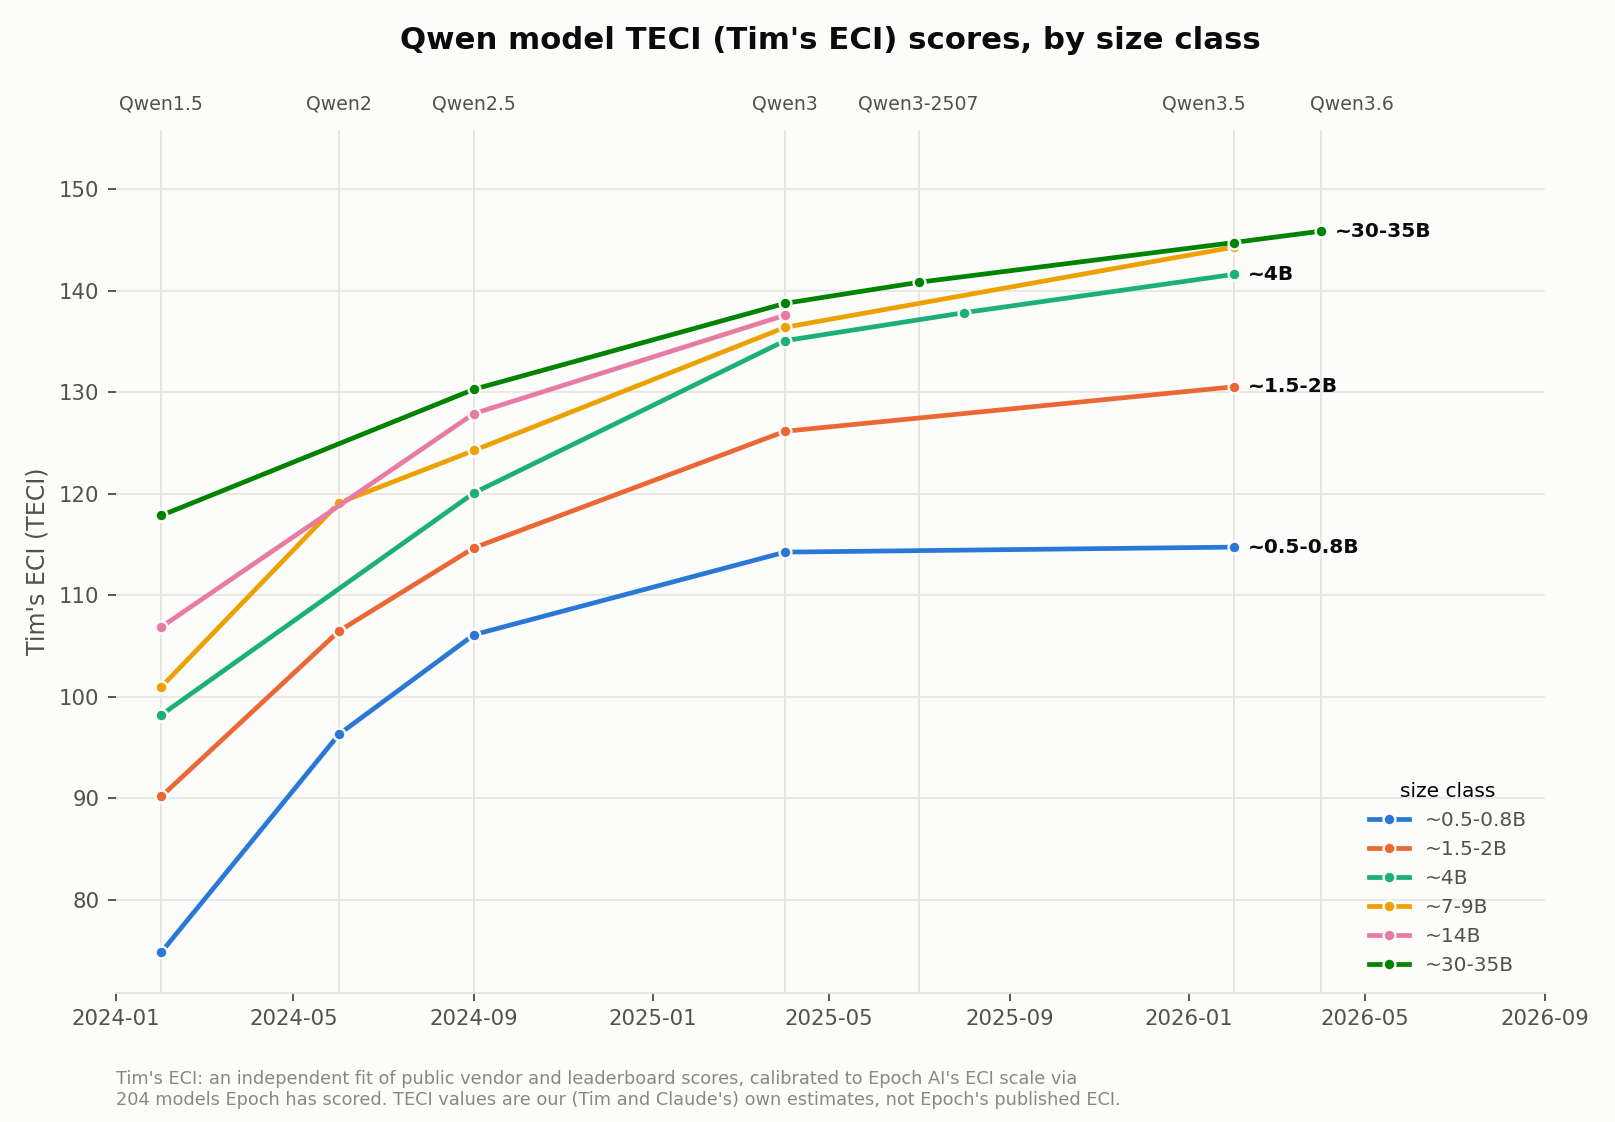
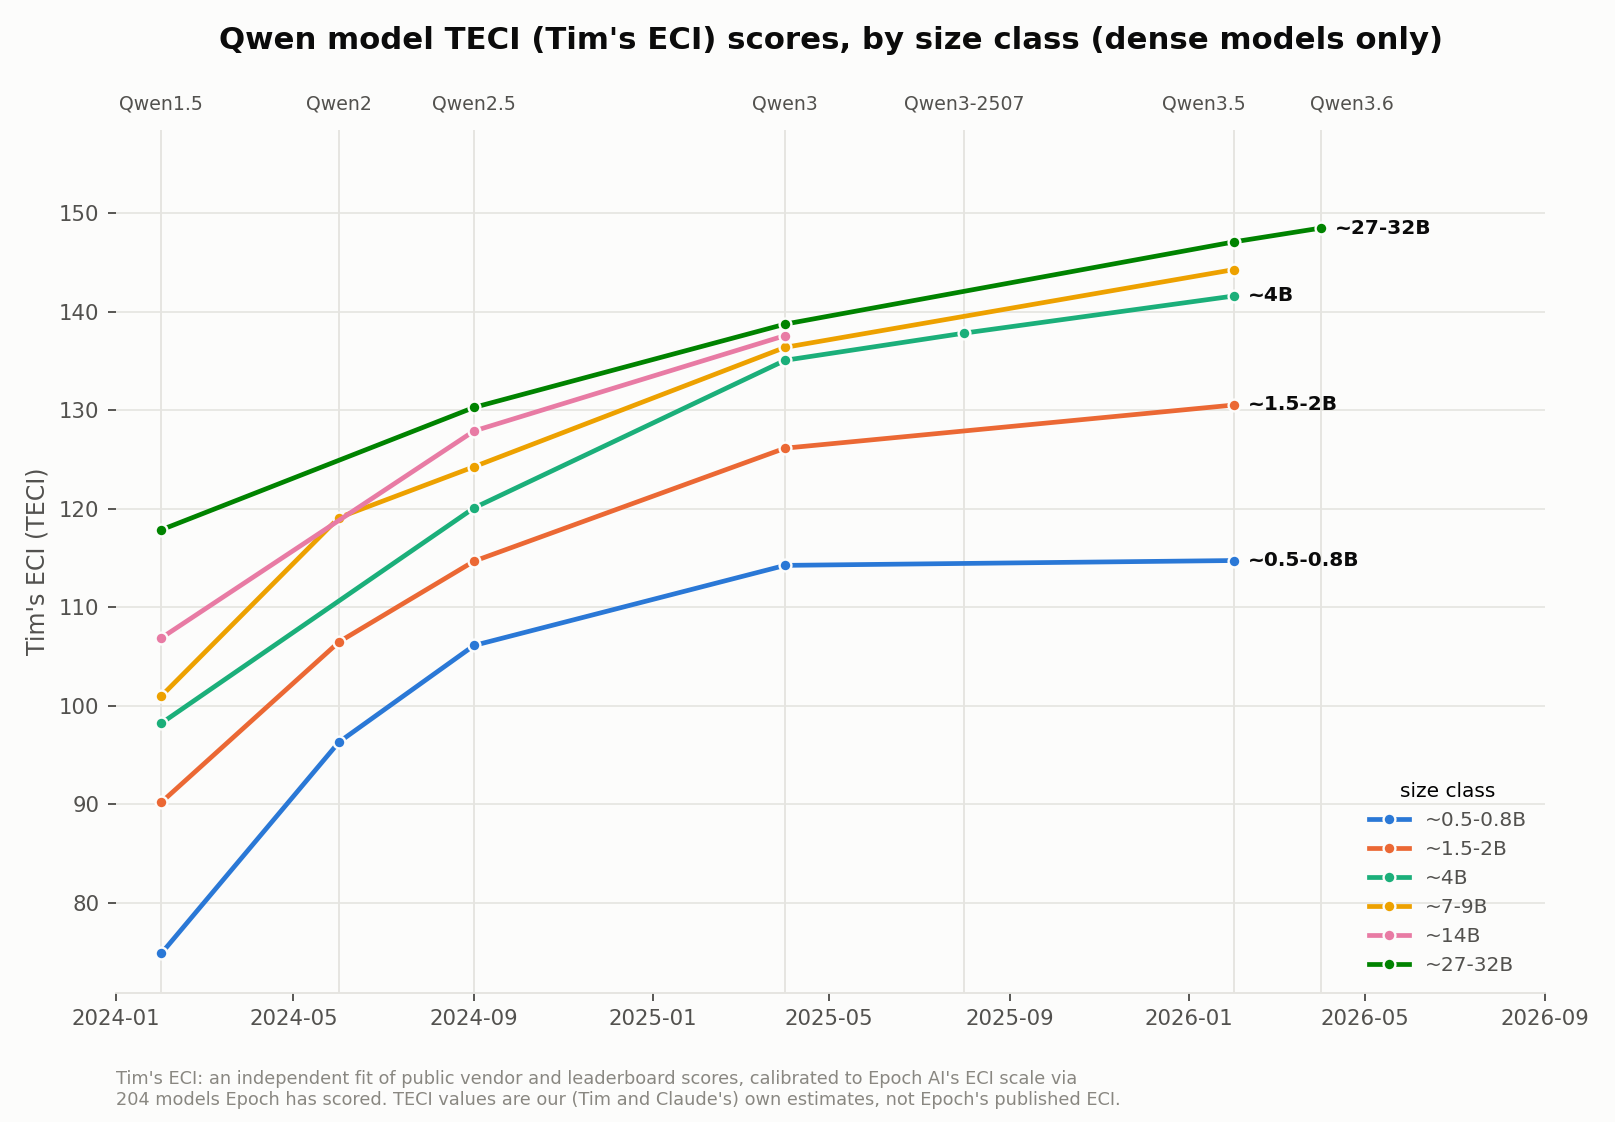
Restrict the Qwen tracks to dense models
The ~30-35B track mixed dense 32B models with MoE 30-35B models that activate
only 3B. Holding total parameters roughly constant hid a ~10x drop in compute
per token, so the apparent slowdown at the top was partly Qwen moving compute
out of that slot -- into the 397B-A17B flagship -- rather than progress
stalling at that size.

Dense 27B models exist for Qwen3.5 and 3.6, so the track needs no truncating:
it now runs Qwen1.5-32B -> Qwen2.5-32B -> Qwen3-32B -> Qwen3.5-27B ->
Qwen3.6-27B, through 2026-04 as before, relabelled ~27-32B. The dense models
also score higher (Qwen3.6-27B 148.5 vs 35B-A3B 145.8), and the deceleration
softens from +21.3/+14.6/+8.3/+6.7/+6.9 to +21.3/+14.6/+10.0/+8.6 per year.

Applied to both trajectory charts. Every other Qwen track was already dense.
Gemma's E2B/E4B tracks are NOT -- Gemma 3n and Gemma 4 use selective
activation and there is no dense equivalent at those sizes, so they stay and
the two-panel chart's subtitle now says so rather than implying a uniform
rule.

Note this is a chart-composition change only; no refit, and results_methods.csv
is untouched.

diff --git a/scripts/mk_chart_qwen.py b/scripts/mk_chart_qwen.py
@@ -21,11 +21,11 @@ C = ["#2a78d6", "#eb6834", "#1baf7a", "#eda100", "#e87ba4", "#008300"]
 # the wrong thing.
 #
 # The note claims the values are ours, NOT that Epoch has never scored these
-# models -- 18 of our 123 entries do have a published ECI (2 of the 31 on this
-# chart: Qwen3.5-35B-A3B and Qwen3.6-35B-A3B). Those are the bridge nodes that
-# calibrate the fit. Even for them the plotted number is our fitted value, so
-# "our (Tim and Claude's) own estimates, not Epoch's published ECI" holds for
-# every point.
+# models -- 18 of our 123 entries do have a published ECI (the bridge nodes that
+# calibrate the fit), though since the dense-only change none of them land on
+# this particular chart. Even where they do, the plotted number is our fitted
+# value, so "our (Tim and Claude's) own estimates, not Epoch's published ECI"
+# holds for every point on every chart.
 TECI_AXIS = "Tim's ECI (TECI)"
 TECI_NOTE = ("Tim's ECI: an independent fit of public vendor and leaderboard scores, calibrated to Epoch AI's ECI scale via\n"
              "204 models Epoch has scored. TECI values are our (Tim and Claude's) own estimates, not Epoch's published ECI.")
@@ -49,9 +49,16 @@ TRACKS = {
               "Qwen3.5-9B [Thinking (default)]"],
     "~14B": ["Qwen1.5-14B-Chat [Instruct/chat]", "Qwen2.5-14B-Instruct [Instruct/chat]",
              "Qwen3-14B [Thinking mode]"],
-    "~30-35B": ["Qwen1.5-32B-Chat [Instruct/chat]", "Qwen2.5-32B-Instruct [Instruct/chat]",
-                "Qwen3-32B [Thinking mode]", "Qwen3-30B-A3B-Thinking-2507 [Thinking]",
-                "Qwen3.5-35B-A3B [Thinking (default)]", "Qwen3.6-35B-A3B [Thinking (default)]"],
+    # Dense only. This track used to end on Qwen3-30B-A3B-2507 and the 35B-A3B
+    # models, which are MoE with just 3B active -- so total parameters stayed
+    # ~constant while compute per token fell by roughly 10x, and the apparent
+    # slowdown at the top was partly Qwen moving compute out of this slot rather
+    # than progress stalling. The dense 27B models keep the track comparable and
+    # run to the same date; they also score higher (Qwen3.6-27B 148.5 vs
+    # 35B-A3B 145.8).
+    "~27-32B": ["Qwen1.5-32B-Chat [Instruct/chat]", "Qwen2.5-32B-Instruct [Instruct/chat]",
+                "Qwen3-32B [Thinking mode]", "Qwen3.5-27B [Thinking (default)]",
+                "Qwen3.6-27B [Thinking (default)]"],
 }
 
 fig, ax = plt.subplots(figsize=(9.5, 6.6), facecolor=SURF)
@@ -80,7 +87,7 @@ for gen, d in gen_date.items():
                 xytext=(GEN_NUDGE.get(gen, 0), 7), textcoords="offset points",
                 ha="center", va="bottom", fontsize=8, color=INK2, zorder=4)
 
-DIRECT = {"~0.5-0.8B", "~1.5-2B", "~4B", "~30-35B"}
+DIRECT = {"~0.5-0.8B", "~1.5-2B", "~4B", "~27-32B"}
 for i, (name, entries) in enumerate(TRACKS.items()):
     pts = sorted((rr.loc[e, "date"], float(rr.loc[e, "eci_A"])) for e in entries if e in rr.index)
     xs, ys = zip(*pts)
@@ -100,7 +107,7 @@ ax.set_ylabel(TECI_AXIS, color=INK2, fontsize=10)
 ax.legend(loc="lower right", fontsize=8.5, frameon=False, labelcolor=INK2,
           title="size class", title_fontsize=8.5)
 # no "(Qwen1.5 onward)": the generation labels along the top say where it starts
-ax.set_title("Qwen model TECI (Tim's ECI) scores, by size class",
+ax.set_title("Qwen model TECI (Tim's ECI) scores, by size class (dense models only)",
              color=INK, fontsize=13, loc="center", fontweight="bold", pad=34)
 # The disclaimer rides at the foot rather than under the title, so the header
 # stays clean and the claim travels with the image wherever it gets pasted.

diff --git a/scripts/mk_charts.py b/scripts/mk_charts.py
@@ -37,9 +37,12 @@ TRACKS_Q = {
               "Qwen3-8B [Thinking mode]", "Qwen3.5-9B [Thinking (default)]"],
     "~14B": ["Qwen-14B-Chat [Instruct/chat]", "Qwen1.5-14B-Chat [Instruct/chat]",
              "Qwen2.5-14B-Instruct [Instruct/chat]", "Qwen3-14B [Thinking mode]"],
-    "~30-35B": ["Qwen1.5-32B-Chat [Instruct/chat]", "Qwen2.5-32B-Instruct [Instruct/chat]",
-                "Qwen3-32B [Thinking mode]", "Qwen3-30B-A3B-Thinking-2507 [Thinking]",
-                "Qwen3.5-35B-A3B [Thinking (default)]", "Qwen3.6-35B-A3B [Thinking (default)]"],
+    # Dense only, matching mk_chart_qwen.py: the 30-35B MoE models activate just
+    # 3B, so holding total parameters constant hid a ~10x drop in compute per
+    # token and made the top track look like it was stalling.
+    "~27-32B": ["Qwen1.5-32B-Chat [Instruct/chat]", "Qwen2.5-32B-Instruct [Instruct/chat]",
+                "Qwen3-32B [Thinking mode]", "Qwen3.5-27B [Thinking (default)]",
+                "Qwen3.6-27B [Thinking (default)]"],
 }
 TRACKS_G = {
     "~1-2B (E2B)": ["Gemma 2B IT [Instruction-tuned (IT)]", "Gemma 2 2B IT [Instruction-tuned (IT)]",
@@ -58,7 +61,7 @@ _plotted = [float(rr.loc[e, "eci_A"]) for t in (TRACKS_Q, TRACKS_G)
 YLIM = (min(_plotted) - 4, max(_plotted) + 10)
 
 fig, axes = plt.subplots(1, 2, figsize=(13, 6.4), facecolor=SURF)
-DIRECT_Q = {"~0.5-0.8B", "~4B", "~7-9B", "~30-35B"}
+DIRECT_Q = {"~0.5-0.8B", "~4B", "~7-9B", "~27-32B"}
 for ax, tracks, title, direct in ((axes[0], TRACKS_Q, "Qwen", DIRECT_Q),
                                   (axes[1], TRACKS_G, "Gemma (IT)", set(TRACKS_G))):
     ax.set_facecolor(SURF)
@@ -84,7 +87,7 @@ for ax, tracks, title, direct in ((axes[0], TRACKS_Q, "Qwen", DIRECT_Q),
 axes[0].set_ylabel(TECI_AXIS, color=INK2, fontsize=9.5)
 fig.suptitle("Small Qwen & Gemma models on the TECI scale (method A: joint refit with Epoch data)",
              color=INK, fontsize=13, x=0.02, ha="left", fontweight="bold", y=0.99)
-fig.text(0.02, 0.925, "Instruct/thinking entries",
+fig.text(0.02, 0.925, "Instruct/thinking entries. Qwen tracks are dense models only; Gemma's E2B/E4B use selective activation, for which no dense equivalent exists.",
          color=INK2, fontsize=9)
 fig.text(0.02, 0.012, TECI_NOTE, color=MUTED, fontsize=7.5, va="bottom")
 fig.tight_layout(rect=(0, 0.062, 1, 0.91))
